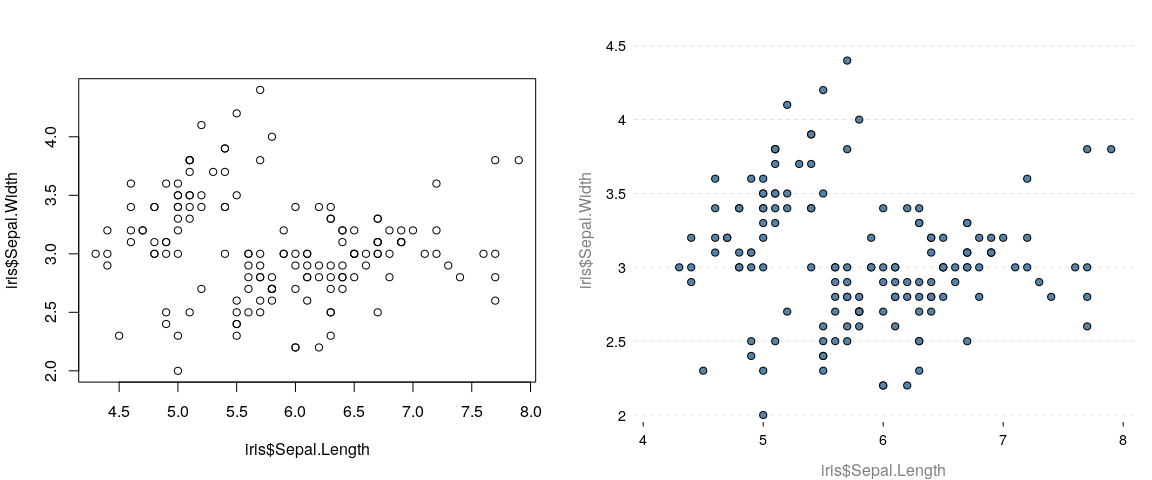
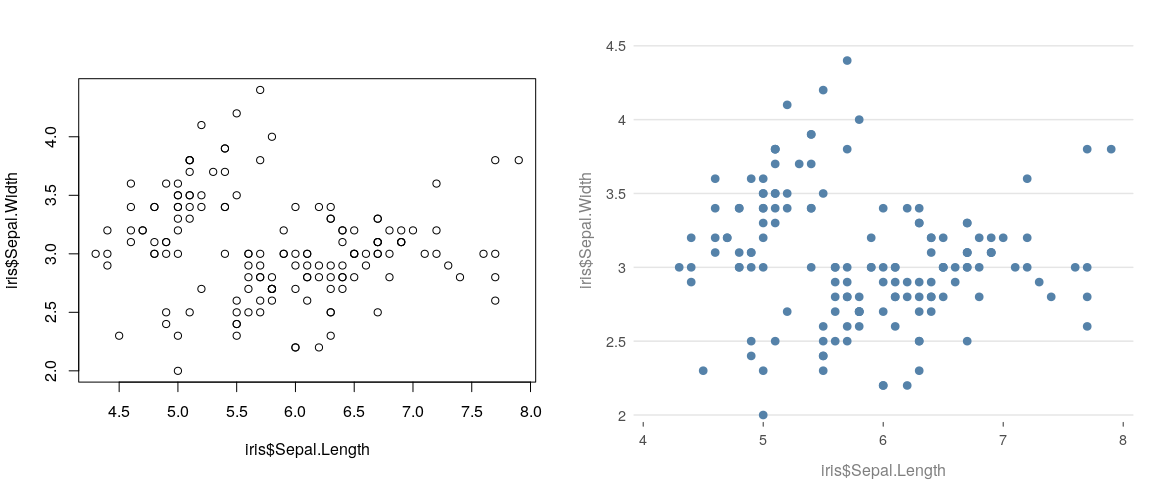
Update README and fix #6

diff --git a/README.md b/README.md
@@ -15,8 +15,14 @@ automatically make base graphics a bit more pretty.
 
 ## Installation
 
-The package is still being developed and the API is subject to change.
-To install the package from github, use **devtools**
+The package is still being developed and the graphs are subject to
+change. The package is on CRAN and can be installed in the usual way
+
+``` r
+install.packages("prettyB")
+```
+
+To install the dev version, try
 
 ``` r
 devtools::install_github("jumpingrivers/prettyB")
@@ -40,51 +46,48 @@ plot(iris$Sepal.Length, iris$Sepal.Width)
 ```
 
 <img src="man/figures/README-plot-minimal-1.png" style="display: block; margin: auto;" />
-
-The second `plot()` function call is from the **prettyB** package.
-
-There are currently two themes: `expand` and `minimal`(default):
+When you first call a **prettyB**, it changes the underlying `par()` and
+`palette()`. You can reset this via
 
 ``` r
-theme_set("expand")
-par(mfrow = c(1, 2))
-graphics::plot.default(iris$Sepal.Length, iris$Sepal.Width, 
-     main="Classic Iris Dataset", xlab="Length", ylab="Width")
-plot(iris$Sepal.Length, iris$Sepal.Width, 
-     main="Classic Iris Dataset", xlab="Length", ylab="Width")
+prettyB::reset_prettyB()
 ```
 
-<img src="man/figures/README-plot-expand-1.png" style="display: block; margin: auto;" />
+The core idea of **prettyB** is that no new arguments are introducted to
+the plot functions. This means, that no changes to existing code are
+required
 
-<!-- ## Other plots -->
+``` r
+plot(iris$Sepal.Length, iris$Sepal.Width, 
+     xlab = "Length", ylab = "Width",
+     main = "The Iris data set", 
+     sub = "I hate this data too")
+```
 
-<!-- The package also prettifies other functions, currently only qqplots. -->
+<img src="man/figures/README-plot-minimal-full-1.png" style="display: block; margin: auto;" />
 
-<!--   * qqplots -->
+## Other plots
 
-<!--     ```{r, qqplots,echo=-1} -->
+The package also prettifies other functions
 
-<!--     theme_set("minimal") -->
+  - Histograms
+    
+    ``` r
+    z = rt(100, 4)
+    graphics::hist.default(z, main = "The t-distribution")
+    hist(z, main = "The t-distribution")
+    ```
+    
+    <img src="man/figures/README-unnamed-chunk-6-1.png" style="display: block; margin: auto;" />
 
-<!--     par(mfrow = c(1, 2)) -->
-
-<!--     x = rnorm(20) -->
-
-<!--     stats:::qqnorm.default(x) -->
-
-<!--     qqnorm(x) -->
-
-<!--     ``` -->
-
-<!-- * Histograms --> <!--   ```{r, echo=-1} -->
-<!--   par(mfrow=c(1, 2)) --> <!--   z = rt(100, 2) -->
-<!--   graphics::hist.default(z, main="The t-distribution") -->
-<!--   hist(z, main="The t-distribution") --> <!--   ``` -->
-<!-- * barplots --> <!--   ```{r, echo=-1} -->
-<!--   par(mfrow = c(1, 2), cex=0.9) -->
-<!--   graphics::barplot.default(VADeaths, main = "Death Rates in Virginia") -->
-<!--   barplot(VADeaths, main = "Death Rates in Virginia") -->
-<!--   ``` -->
+  - barplots
+    
+    ``` r
+    graphics::barplot.default(VADeaths, main = "Death Rates in Virginia")
+    barplot(VADeaths, main = "Death Rates in Virginia")
+    ```
+    
+    <img src="man/figures/README-unnamed-chunk-7-1.png" style="display: block; margin: auto;" />
 
 ## Package Rationale
 
@@ -102,6 +105,11 @@ Since the generated plots by **prettyB** use standard base graphics,
 with no new arguments, this makes plots future proof. As a fall-back,
 just don’t load the package.
 
+I picked up the general style a few years ago, but the book
+[Fundamentals of Data Visualization](https://amzn.to/2Hct447) has made
+it a bit more consist. The author also provided a free
+[online](https://serialmentor.com/dataviz/) version.
+
 ## Other information
 
   - If you have any suggestions or find bugs, please use the github
@@ -110,8 +118,7 @@ just don’t load the package.
 
 ### TODO
 
-  - Box plots, barplots, histograms
-  - Think a bit more about palettes
+  - Box plots
   - Vignettes: What defaults have been changed.
 
 -----
